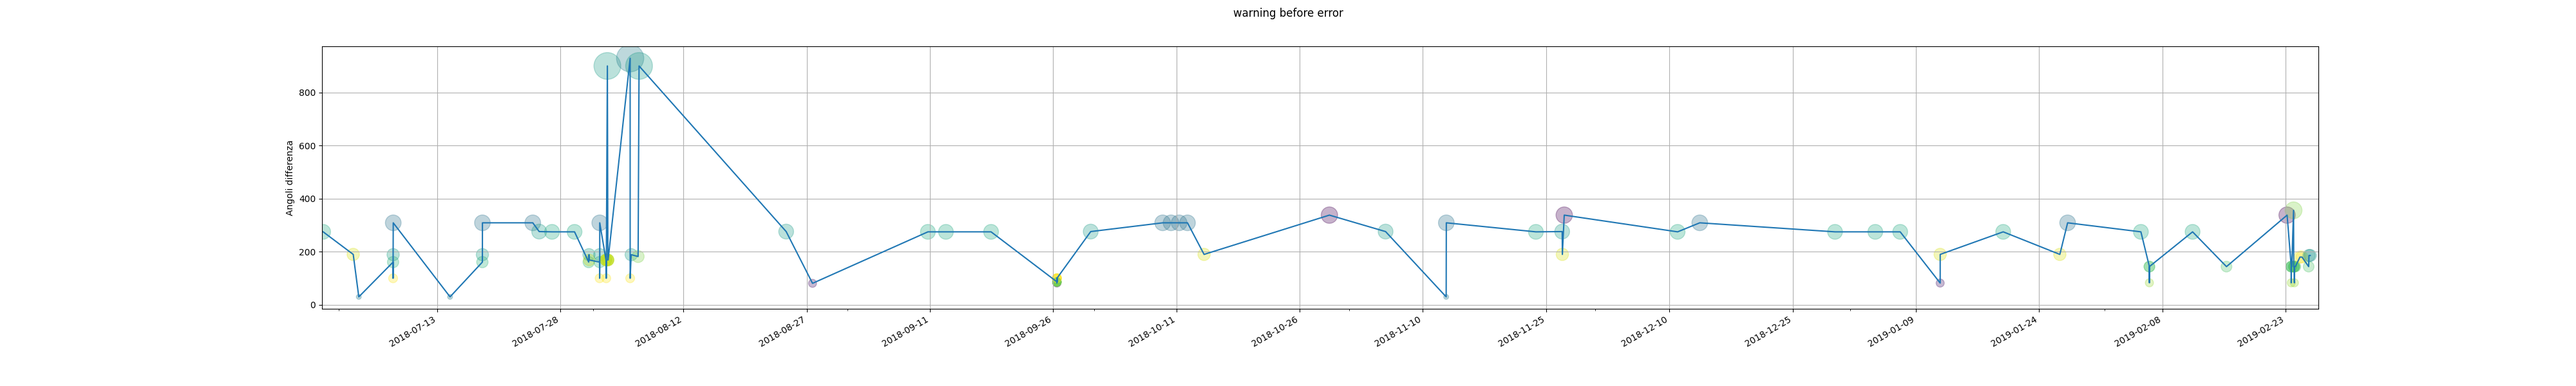
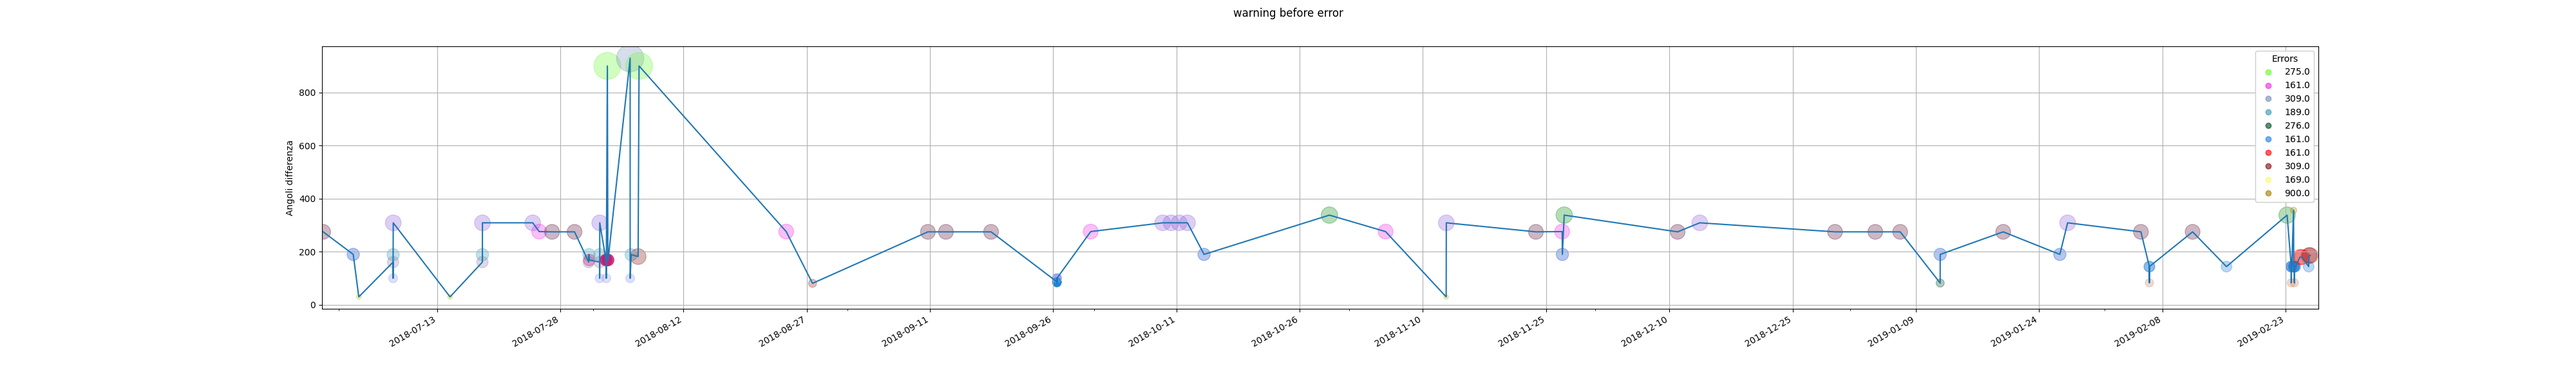
legend scatter

diff --git a/ScriptStatisticWindTurbine/ChartMaintenance.py b/ScriptStatisticWindTurbine/ChartMaintenance.py
@@ -1,3 +1,9 @@
+import random
+
+from matplotlib import colors
+from matplotlib.colors import LinearSegmentedColormap
+
+from tail_recursion import tail_recursive, recurse
 from pandas import DataFrame
 import UtilsPLT as Util_Plt
 from ReadDB import ReadDB as Db
@@ -7,10 +13,43 @@ import CorrelationPlt as Cr
 import TypeDistribution as Tp
 import matplotlib.dates as mdates
 import pandas as pd
+from CaseClassPlt import ErrorInfo, WarningInfo
 
 db_call = Db()
 
+
+def load_color_errors():
+    return [ErrorInfo(error[0], error[1], error[2] + error[0]) for error in zip(Util_Plt.errors, color_error,
+                                                                                dimension_error)]
+
+
+def load_color_warnings():
+    return [WarningInfo(warning[0], warning[1], warning[2]) for warning in
+            zip(Util_Plt.warnings, color_warning, dimension_warning)]
+
+
 __total_grade__ = 360
+
+
+def get_int_from_rgb(rgb):
+    red = rgb[0]
+    green = rgb[1]
+    blue = rgb[2]
+    print(red, green, blue)
+    rgb_int = (red << 16) + (green << 8) + blue
+    return rgb_int
+
+
+color_error = [(255 / 255, 6 / 255, 6 / 255), (122 / 255, 39 / 255, 55 / 255), (158 / 255, 19 / 255, 19 / 255),
+               (127 / 255, 17 / 255, 17 / 255), (247 / 255, 52 / 255, 52 / 255)]
+dimension_error = [110, 100, 120, 130, 140]
+color_warning = [(255 / 255, 255 / 255, 0 / 255), (255 / 255, 255 / 255, 112 / 255), (152 / 255, 152 / 255, 8 / 255),
+                 (111 / 255, 111 / 255, 9 / 255), (169 / 255, 131 / 255, 6 / 255)]
+dimension_warning = [90, 80, 70, 60, 50]
+errors = load_color_errors()
+warnings = load_color_warnings()
+aux_errors = Util_Plt.errors
+aux_warning = Util_Plt.warnings
 
 
 def create_dictionary_by_values(all_values: list):
@@ -76,27 +115,91 @@ def is_int_or_float(date):
         return False
 
 
+def filter_color(value: float):
+    return filter_color_error(value) if value in aux_errors else filter_color_warning(value)
+
+
+def filter_dimension(value: float):
+    return filter_dimension_error(value) if value in aux_errors else filter_dimension_warning(value)
+
+
+def filter_color_error(value: float):
+    return list(filter(lambda value_error: value_error.error == value, errors))[0].color
+
+
+def filter_color_warning(value: float):
+    return list(filter(lambda value_warning: value_warning.warning == value, warnings))[0].color
+
+
+def filter_dimension_error(value: float):
+    return list(filter(lambda value_error: value_error.error == value, errors))[0].dimension
+
+
+def filter_dimension_warning(value: float):
+    return list(filter(lambda value_warning: value_warning.warning == value, warnings))[0].dimension
+
+
+def create_color(my_unique_values):
+    @tail_recursive
+    def _create_color_(unique_values, my_colors: list = None):
+        if len(unique_values) > 0:
+            result = (random.random(), random.random(), random.random())
+            if result not in color_error and color_warning:
+                my_colors.append(result)
+                return recurse(unique_values[1:], my_colors)
+            else:
+                return recurse(unique_values, my_colors)
+        else:
+            return my_colors
+
+    return _create_color_(my_unique_values, [])
+
+
+def change_string(label: str, final_list_error: np.array):
+    search = int(label[label.find('{') + 1:len(label) - 2])
+    label_f = label[:label.find('{')+1] + str(final_list_error[search]) + "}$"
+    return label_f
+
+
+def change_strings(labels: list, final_list_error: np.array):
+    return [change_string(label, final_list_error) for label in labels]
+
+
 def plot_warning(final, id_turbine, name_turbine):
     date = np.array([pd.to_datetime(date[4]) for date in final if is_int_or_float(date[3])])
     fig, ax = plt.subplots(figsize=(40, 6))
 
-    rng = np.random.RandomState(0)
     value_warning = np.array([float(date[3]) for date in final if is_int_or_float(date[3])])
-    my_unique_values = list(set(value_warning))
-    colors = rng.rand(len(my_unique_values))
+    my_unique_values = list(
+        filter(lambda value: value not in aux_errors and value not in aux_warning, set(value_warning)))
+    colors_custom = create_color(my_unique_values)
     final_element_with_color_and_size = []
     sizes = my_unique_values  # mod size by error, more great the error more great the dimension
     for val in value_warning:
-        final_element_with_color_and_size.append(
-            (colors[my_unique_values.index(val)], sizes[my_unique_values.index(val)]))
+        if val in my_unique_values:
+            final_element_with_color_and_size.append(
+                (colors_custom[my_unique_values.index(val)], sizes[my_unique_values.index(val)]))
+        else:
+            final_element_with_color_and_size.append(
+                (filter_color(val), filter_dimension(val)))
+    final_colors = list(map(lambda color: color[0], final_element_with_color_and_size))
 
-    ax.scatter(date, value_warning, c=list(map(lambda color: color[0], final_element_with_color_and_size)),
-               s=list(map(lambda size: size[1], final_element_with_color_and_size)), alpha=0.3, cmap='viridis')
+    c_map_name = 'custom_color_map'
+    c_map = LinearSegmentedColormap.from_list(c_map_name, colors_custom + color_error + color_warning)
+    color_index = np.array([colors_custom.index(x) if x in colors_custom else (
+        len(colors_custom) + color_error.index(x) if x in color_error
+        else len(colors_custom) + len(color_error) + color_warning.index(x))
+                            for x in final_colors])
+    scatter = ax.scatter(date, value_warning, c=color_index,
+                         s=list(map(lambda size: size[1], final_element_with_color_and_size)), alpha=0.3, cmap=c_map)
+    handles, labels = scatter.legend_elements(prop="colors", alpha=0.6)
+    labels = change_strings(labels, value_warning)
+    legend1 = ax.legend(handles, labels, loc="upper right", title="Errors")
+    ax.add_artist(legend1)
     ax.plot(date, value_warning)
-
-    # Major ticks every 6 months.
     fmt_half_year = mdates.DayLocator(interval=15)
     create_chart(ax, fmt_half_year, date, fig, name_turbine, "maintenance_period")
+    print(value_warning)
 
 
 def create_chart(ax, fmt_half_year, date, fig, name_turbine, directory):

diff --git a/ScriptStatisticWindTurbine/UtilsPLT.py b/ScriptStatisticWindTurbine/UtilsPLT.py
@@ -4,8 +4,8 @@ from typing import List
 from CaseClassPlt import DateTurbine, TotalWarning, DateTurbineCustom, DateTurbineErrorCustom
 from tail_recursion import tail_recursive, recurse
 
-errors = [180, 3370, 186, 182, 181]
-warnings = [892, 891, 183, 79, 356]
+errors: List[int] = [180, 3370, 186, 182, 181]
+warnings: List[int] = [892, 891, 183, 79, 356]
 format_date = "%Y/%m/%d %H:%M:%S"
 __date__ = "date"
 __nacelle_direction__ = "nacelle direction"

diff --git a/ScriptStatisticWindTurbine/tail_recursion.py b/ScriptStatisticWindTurbine/tail_recursion.py
@@ -4,9 +4,11 @@ class Recurse(Exception):
         self.args = args
         self.kwargs = kwargs
 
+
 def recurse(*args, **kwargs):
     raise Recurse(*args, **kwargs)
-        
+
+
 def tail_recursive(f):
     def decorated(*args, **kwargs):
         while True:
@@ -16,4 +18,5 @@ def tail_recursive(f):
                 args = r.args
                 kwargs = r.kwargs
                 continue
+
     return decorated

diff --git a/ScriptStatisticWindTurbine/CaseClassPlt.py b/ScriptStatisticWindTurbine/CaseClassPlt.py
@@ -39,3 +39,17 @@ class MaintenanceTurbine:
     date_init: str
     date_finish: str
     is_normal: bool
+
+
+@dataclass(frozen=True)
+class ErrorInfo:
+    error: float
+    color: (int, int, int)
+    dimension: float
+
+
+@dataclass(frozen=True)
+class WarningInfo:
+    warning: float
+    color: (int, int, int)
+    dimension: float
